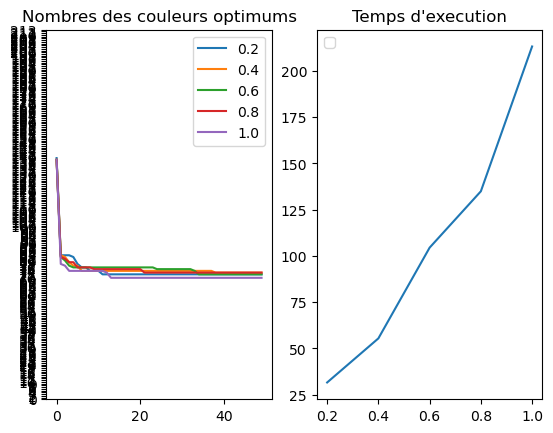
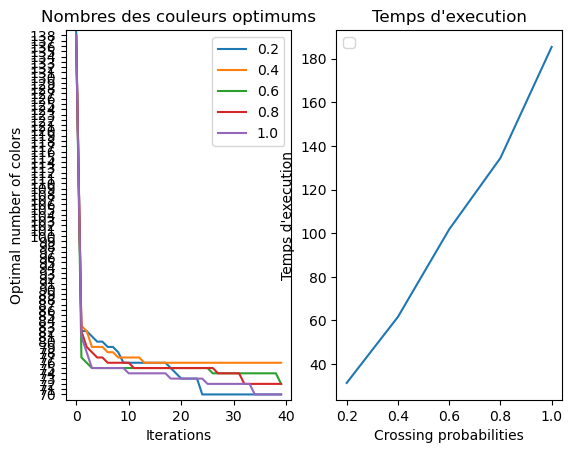
crossing proba tuning against all files

Changed region(s): [[0.0, 0.0, 1.0, 0.9908], [0.0922, 0.9307, 0.123, 0.9908]]

diff --git a/meta_heuristics/genetic_algo_params_tuning.py b/meta_heuristics/genetic_algo_params_tuning.py
@@ -17,11 +17,12 @@ def crossing_probability_impact(g, file_name):
     axis[1].set_xlabel("Crossing probabilities")
     axis[1].set_ylabel("Temps d'execution")
 
-    num_iterations = 50
+    num_iterations = 40
     probabilities = [0.2, 0.4, 0.6, 0.8, 1.0]
     iterations = list(range(num_iterations))
 
     times = []
+    optimums = []
     min_optimum, max_optimum = g.num_vertices, 0
     for proba in probabilities:
         print(proba)
@@ -38,6 +39,7 @@ def crossing_probability_impact(g, file_name):
             param_tuning=True,
         )
         times.append(time() - start)
+        optimums.append(result[-1])
         if len(result) < num_iterations:
             result.extend([result[-1]] * (num_iterations - len(result)))
         min_optimum = min(min_optimum, min(result))
@@ -47,21 +49,28 @@ def crossing_probability_impact(g, file_name):
         # re-init the the graph
         g.re_initialize_graph()
 
+    with open(f"D:\graph-coloring\\benchmark\genetic_algorithm\{file_name}\crossing_probability_impact.txt", 'w+') as f:
+        f.write(f"probabilities =  {probabilities}\r\n")
+        f.write(f"times =  {times}\r\n")
+        f.write(f"optimums =  {optimums}\r\n")
+        f.close()
     print("times = ", times)
     print("iterations = ", iterations)
     print("optimums = ", result)
-    
     axis[0].set_yticks(range(math.floor(0), math.ceil(max(times))))
     axis[0].set_yticks(range(math.floor(min_optimum), math.ceil(max_optimum)))
+    axis[0].set_ylim(bottom = min_optimum - 1, top = max_optimum)
     axis[1].plot(probabilities, times)
     
     
     axis[0].legend()
     axis[1].legend()
     plt.savefig(
-        f"./benchmark/genetic_algorithm/{file_name}/crossing_probability_impact.png", bbox_inches="tight"
+        f"D:\graph-coloring\\benchmark\genetic_algorithm\{file_name}\crossing_probability_impact.png", bbox_inches="tight"
     )
     plt.show()
+    
+
 
 
 def mutation_probability_impact(g):

diff --git a/main.py b/main.py
@@ -23,7 +23,7 @@ if __name__ == "__main__":
     # Créer un graphe à partir du fichier d'entrée.
     g = graph()
     g.read(input_file)
-    file_name = input_file.split("/")[-1].split(".")[0]
+    file_name = input_file.split("\\")[-1].split(".")[0]
     # Colorer le graphe g et mesure le temps que ça prend.
     # choisir une algorithe et l'appeler ici
 
